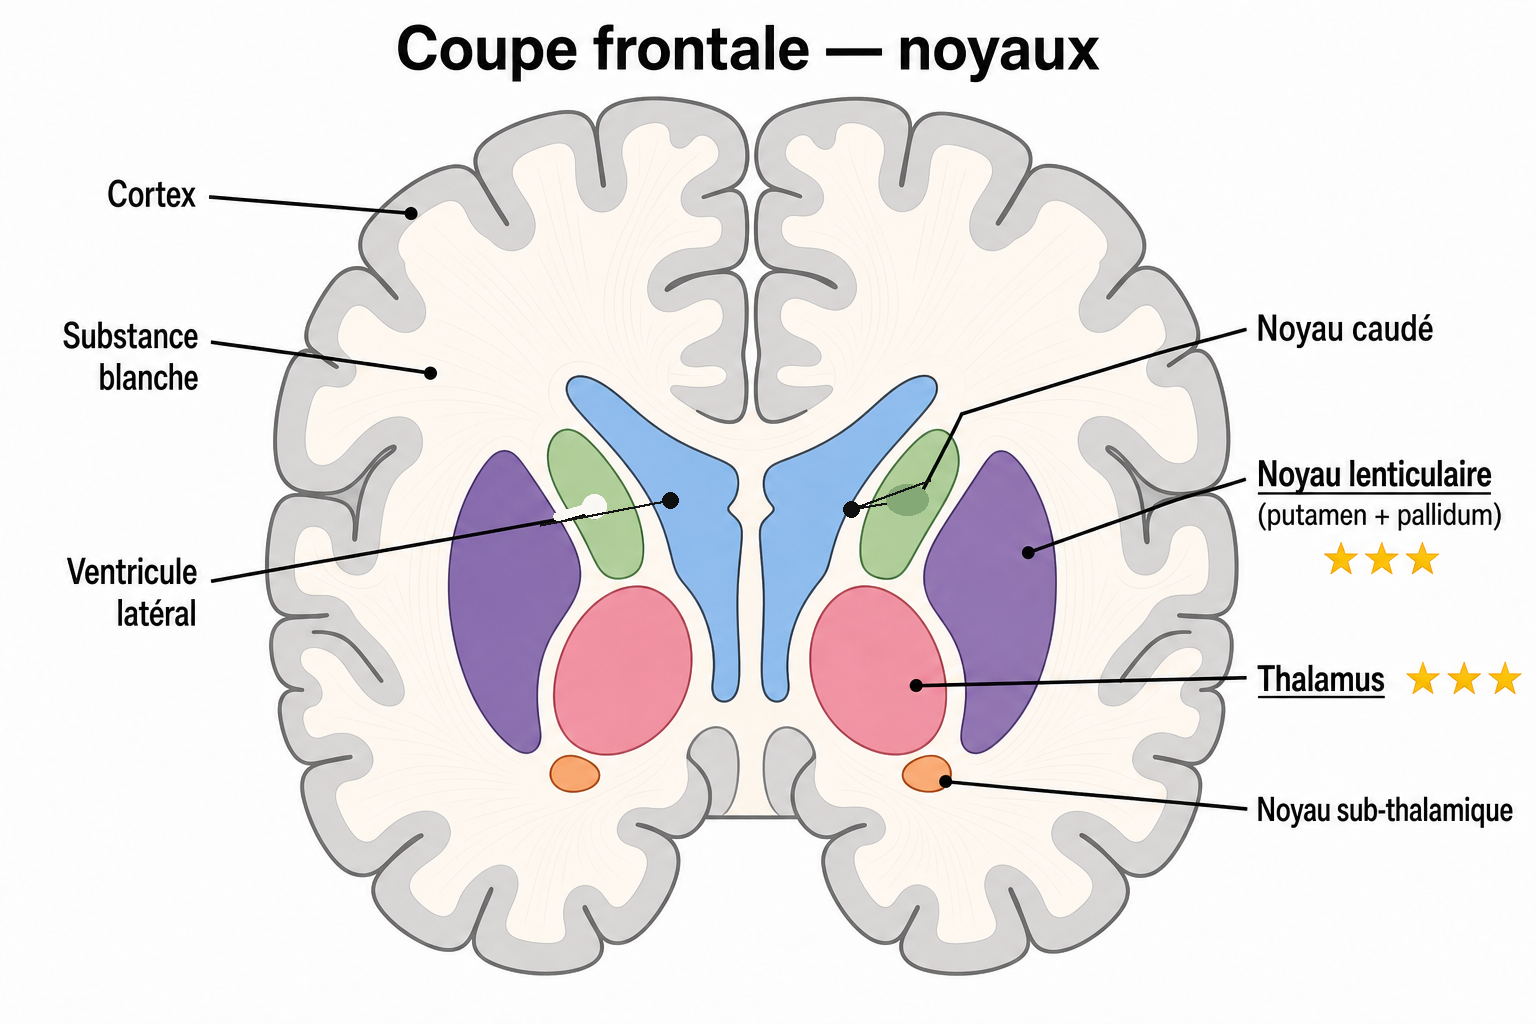
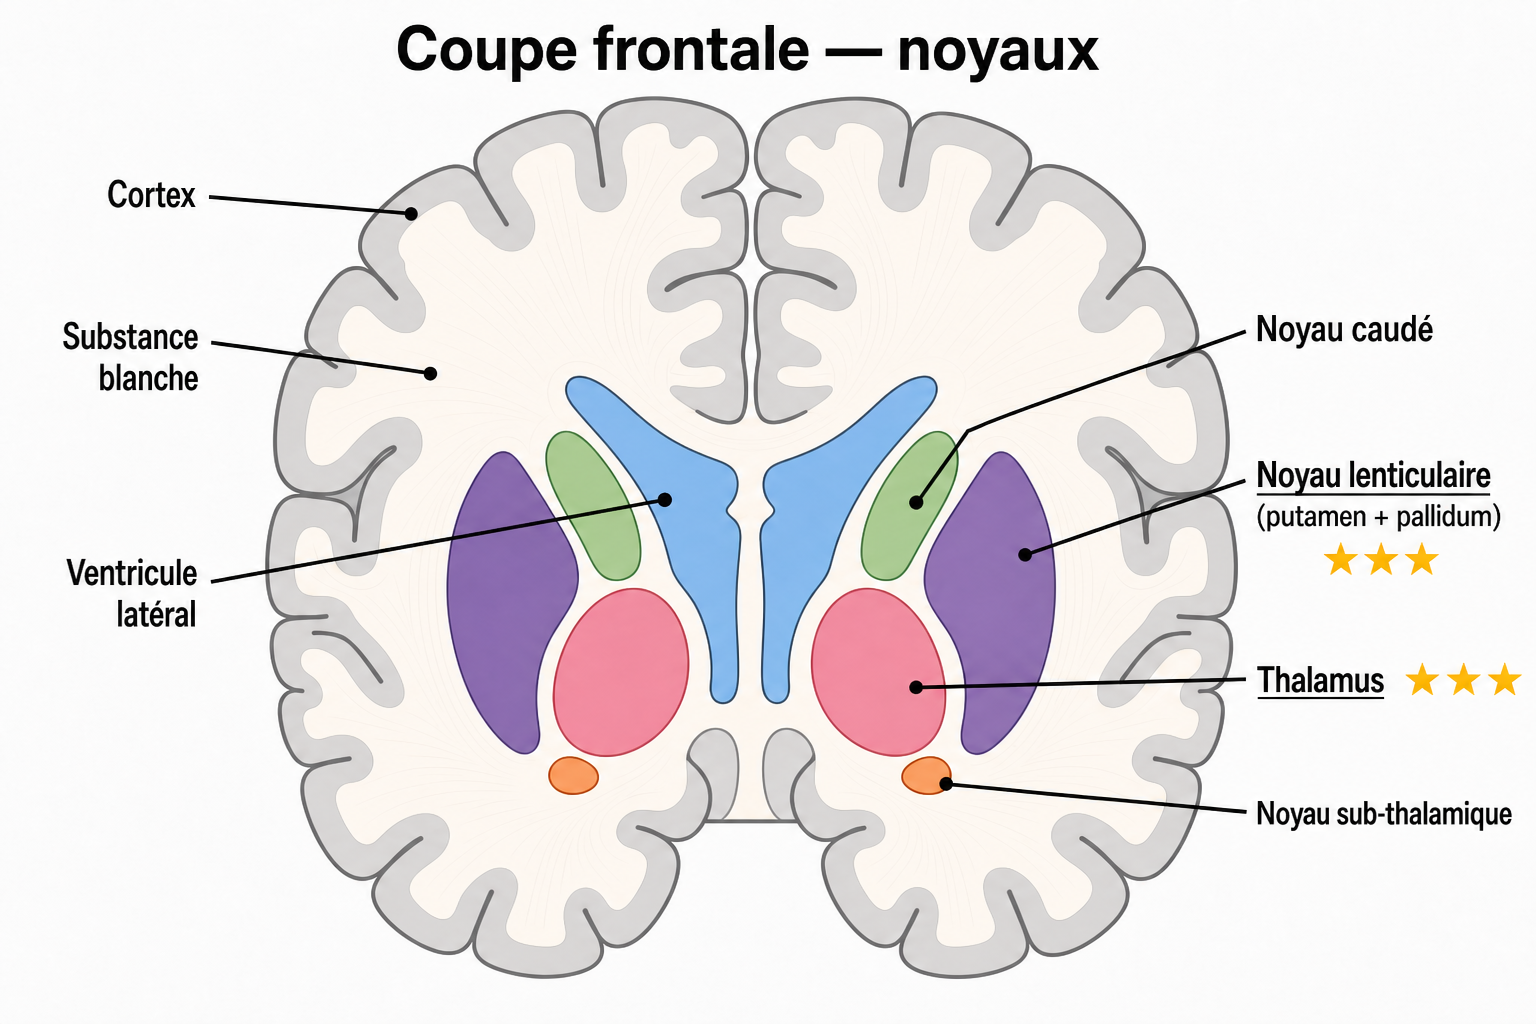
Fix caudate arrow tip on ch02 frontal nuclei schema.

diff --git a/data/flash/ch02.js b/data/flash/ch02.js
@@ -90,7 +90,7 @@
     { id: "FC-ANAT-02-S09", chapter: "02", priority: "P1", kind: "schema", front: "Schéma — Trois étages du tronc", back: "Trois étages du tronc", frontImg: "matiere/anatomie/img/ch02/blank/11_tronc_etages.png", backImg: "matiere/anatomie/img/ch02/11_tronc_etages.png" },
     { id: "FC-ANAT-02-S10", chapter: "02", priority: "P3", kind: "schema", front: "Schéma — Ventricules et LCS", back: "Ventricules et LCS", frontImg: "matiere/anatomie/img/ch02/blank/12_ventricules.png", backImg: "matiere/anatomie/img/ch02/12_ventricules.png" },
     { id: "FC-ANAT-02-S11", chapter: "02", priority: "P3", kind: "schema", front: "Schéma — Cervelet", back: "Cervelet", frontImg: "matiere/anatomie/img/ch02/blank/13_cervelet.png", backImg: "matiere/anatomie/img/ch02/13_cervelet.png" },
-    { id: "FC-ANAT-02-S12", chapter: "02", priority: "P3", kind: "schema", front: "Schéma — Coupe frontale — noyaux", back: "Coupe frontale — noyaux", frontImg: "matiere/anatomie/img/ch02/blank/19_coupe_frontale_noyaux.png?v=fc2", backImg: "matiere/anatomie/img/ch02/19_coupe_frontale_noyaux.png?v=fc2" },
+    { id: "FC-ANAT-02-S12", chapter: "02", priority: "P3", kind: "schema", front: "Schéma — Coupe frontale — noyaux", back: "Coupe frontale — noyaux", frontImg: "matiere/anatomie/img/ch02/blank/19_coupe_frontale_noyaux.png?v=fc2b", backImg: "matiere/anatomie/img/ch02/19_coupe_frontale_noyaux.png?v=fc2b" },
     { id: "FC-ANAT-02-S13", chapter: "02", priority: "P1", kind: "schema", front: "Schéma — Méninges", back: "Méninges", frontImg: "matiere/anatomie/img/ch02/blank/14_meninges.png", backImg: "matiere/anatomie/img/ch02/14_meninges.png" },
     { id: "FC-ANAT-02-S14", chapter: "02", priority: "P1", kind: "schema", front: "Schéma — Expansions de dure-mère", back: "Expansions de dure-mère", frontImg: "matiere/anatomie/img/ch02/blank/15_expansions_dure_mere.png", backImg: "matiere/anatomie/img/ch02/15_expansions_dure_mere.png" },
     { id: "FC-ANAT-02-S15", chapter: "02", priority: "P1", kind: "schema", front: "Schéma — Commissures", back: "Commissures", frontImg: "matiere/anatomie/img/ch02/blank/17_commissures.png", backImg: "matiere/anatomie/img/ch02/17_commissures.png" },

diff --git a/matiere/anatomie/ch02.html b/matiere/anatomie/ch02.html
@@ -258,7 +258,7 @@
     <section class="point" id="p6">
       <h2>6. Le diencéphale <span class="tag p3">P3</span></h2>
       <figure class="schema">
-        <img src="./img/ch02/19_coupe_frontale_noyaux.png?v=fc2" alt="Coupe frontale — noyaux" />
+        <img src="./img/ch02/19_coupe_frontale_noyaux.png?v=fc2b" alt="Coupe frontale — noyaux" />
       </figure>
       <div class="label-quiz" data-labels='[["v3","3e ventricule"],["thalamus"],["hypothalamus"],["epiphyse"],["melatonine"],["noyau sub thalamique","sub thalamique"]]'>
         <div class="course-cloze">
@@ -330,7 +330,7 @@
         <img src="./img/ch02/17_commissures.png" alt="Commissures" />
       </figure>
       <figure class="schema">
-        <img src="./img/ch02/19_coupe_frontale_noyaux.png?v=fc2" alt="Noyaux — coupe frontale" />
+        <img src="./img/ch02/19_coupe_frontale_noyaux.png?v=fc2b" alt="Noyaux — coupe frontale" />
       </figure>
       <div class="label-quiz" data-labels='[["corps calleux"],["noyau lenticulaire"],["thalamus"],["putamen"],["pallidum"]]'>
         <div class="course-cloze">
